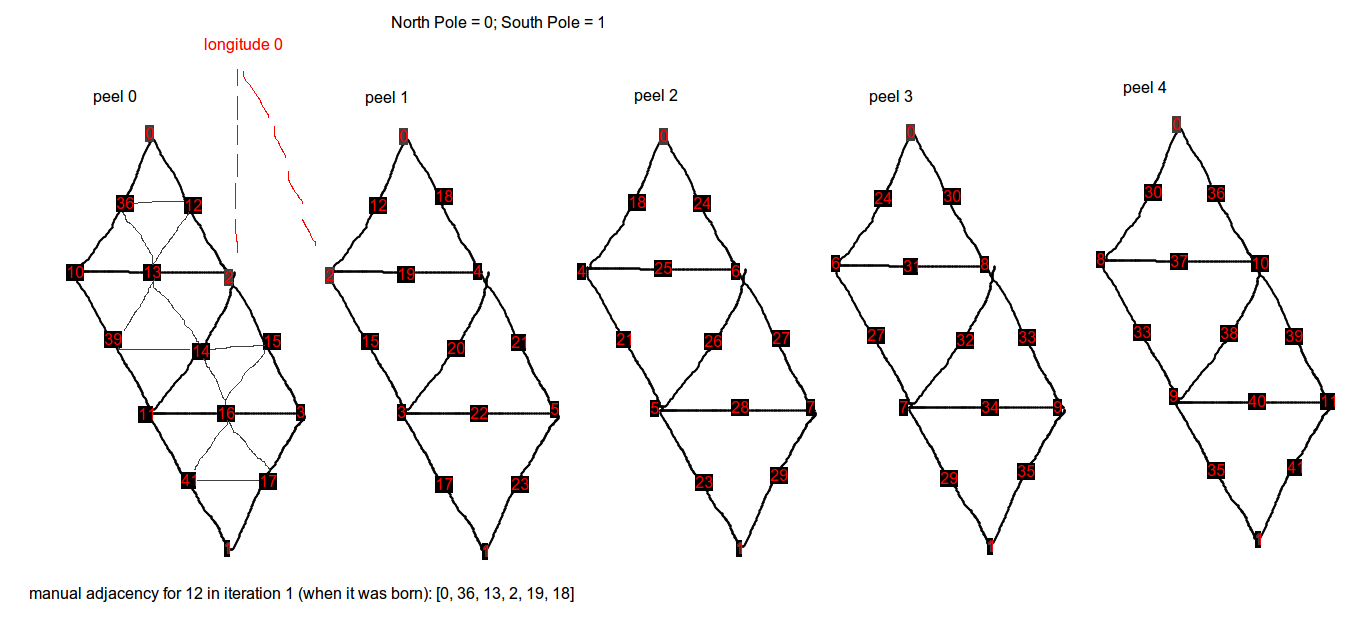
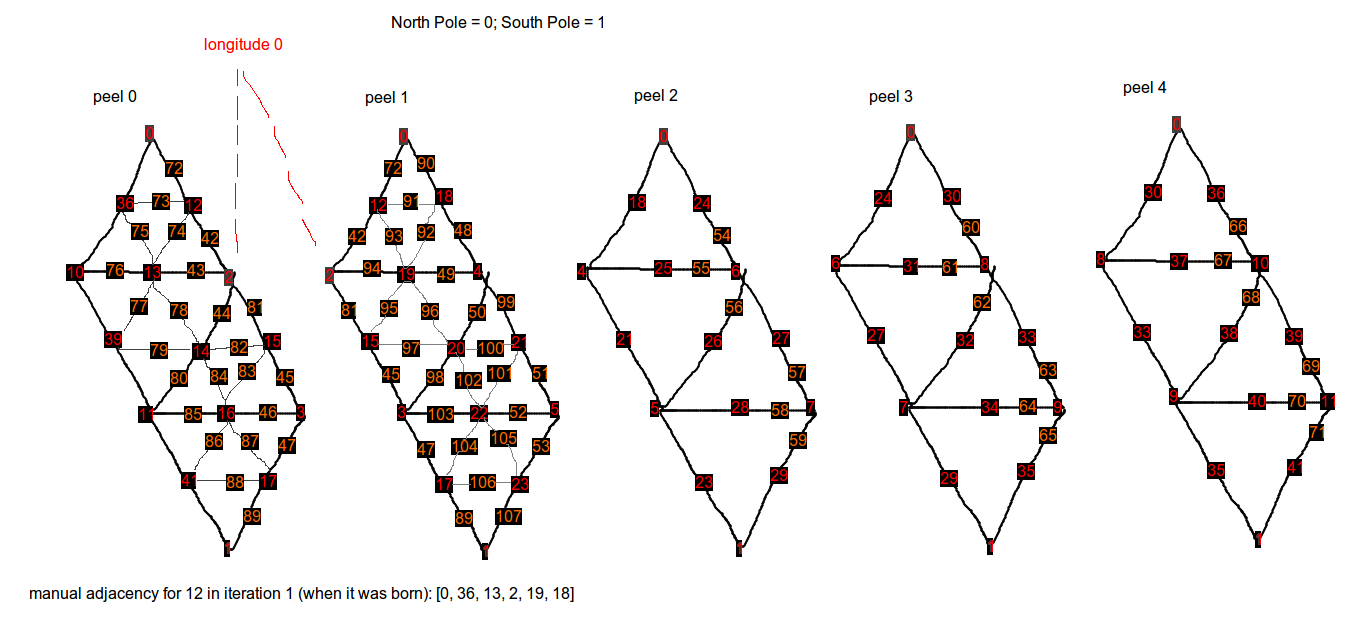
trying Sympy polynomial manipulation to do that matrix problem I came up with in high school

diff --git a/Mapping/IcosahedronMath.py b/Mapping/IcosahedronMath.py
@@ -535,6 +535,9 @@ def unify_five_and_six(adjacency, point_number):
         return adjacency
     elif point_number < 2:
         raise Exception("cannot unify adjacency to six-point for point number {}".format(point_number))
+    elif len(adjacency) == 6:
+        # it's already in 6-point form, return it
+        return adjacency
 
     identity_pair = get_starting_point_neighbor_identity(point_number)
     idx, idy = identity_pair
@@ -561,6 +564,7 @@ def unify_five_and_six(adjacency, point_number):
 def get_adjacency_recursive(point_number, iteration):
     # use get_adjacency_when_born() here as base case
     # for non-born iterations, use the formula for child number from parent, index, and iteration
+    print("getting adjacency recursive for p#{} in i#{}".format(point_number, iteration))
 
     if iteration == get_iteration_born(point_number):
         return get_adjacency_when_born(point_number)
@@ -578,6 +582,8 @@ def get_adjacency_recursive(point_number, iteration):
         else:
             raise ValueError("shouldn't happen")
 
+    print("reached lower cases for p#{} i#{}".format(point_number, iteration))
+
     # children born this iteration are easy to find for points >= 2
     childL = get_child(point_number, 0, iteration)
     childDL = get_child(point_number, 1, iteration)
@@ -590,17 +596,21 @@ def get_adjacency_recursive(point_number, iteration):
     neighborUR = previous_adj[get_direction_number_from_label("UR")]
     neighborU = previous_adj[get_direction_number_from_label("U")]
 
+    neighborU_is_north_pole = neighborU == 0
+    neighborR_is_south_pole = neighborR == 1
+
     # the new R is the previous R's L child (index 0)
-    childR = get_child(neighborR, 0, iteration)
+    childR = get_south_pole_neighbor(iteration=iteration, previous_neighbor_in_direction=point_number) if neighborR_is_south_pole else get_child(neighborR, 0, iteration)
     # the new UR is the previous UR's DL child (index 1)
     childUR = get_child(neighborUR, 1, iteration)
     # the new U is the previous U's D child (index 2)
-    childU = get_child(neighborU, 2, iteration)
+    childU = get_north_pole_neighbor(iteration=iteration, previous_neighbor_in_direction=point_number) if neighborU_is_north_pole else get_child(neighborU, 2, iteration)
 
     adj_labels = {
         "L": childL, "DL": childDL, "D": childD,
         "R": childR, "UR": childUR, "U": childU,
     }
+    print("got adj_labels {}".format(adj_labels))
     adj = convert_adjacency_label_dict_to_list(adj_labels)
     return adj
 
@@ -622,7 +632,7 @@ def get_adjacency_when_born(point_number):
         assert parent not in [0, 1], "parent of p#{} is a pole ({}) but this should not happen".format(point_number, parent)
         # need to account that for the initial points other than the poles, there is a relation in which two of the neighbor directions point to the same neighbor point
         parent_adjacency = unify_five_and_six(parent_adjacency, parent)
-        assert len(parent_adjacency) == 6
+        assert len(parent_adjacency) == 6, "parent p#{} has adjacency of wrong length: {}".format(parent, parent_adjacency)
 
     print("using parent adjacency {}".format(parent_adjacency))
     parL = parent_adjacency[get_direction_number_from_label("L")]
@@ -640,7 +650,17 @@ def get_adjacency_when_born(point_number):
         previous_np_adj = get_adjacency_recursive(0, iteration-1)
     if parR_is_south_pole or parD_is_south_pole:
         previous_sp_adj = get_adjacency_recursive(1, iteration-1)
+    parent_on_NR = is_initial_northern_ring_point(parent)
+    parent_on_SR = is_initial_southern_ring_point(parent)
+    on_northern_seam = is_on_northern_seam(point_number)
+    on_northern_seam_and_parent_has_five_neighbors = on_northern_seam and parent_on_NR
+    on_northern_seam_and_parent_has_six_neighbors = on_northern_seam and not parent_on_NR
+    on_southern_seam = is_on_southern_seam(point_number)
+    on_southern_seam_and_parent_has_five_neighbors = on_southern_seam and parent_on_SR
+    on_southern_seam_and_parent_has_six_neighbors = on_southern_seam and not parent_on_SR
 
+    # so many conditions
+    # ugggggh oh god why
     if child_index == 0:
         # parent plus its L, DL, U neighbors will give you all six new neighbors
         neighbors = {}
@@ -649,9 +669,9 @@ def get_adjacency_when_born(point_number):
         # the parent's old left neighbor is the new point's L neighbor
         neighbors["L"] = parL
         # the parent's upper neighbor's D child (index 2) is the new point's UR neighbor
-        neighbors["UR"] = get_child(go_upright_from_north_pole_neighbor(parent, previous_np_adj), 1, iteration) if parU_is_north_pole else get_child(parU, 2, iteration)
+        neighbors["UR"] = get_child(parUR, 1, iteration) if on_northern_seam_and_parent_has_five_neighbors else get_child(parU, 1, iteration) if on_northern_seam_and_parent_has_six_neighbors else get_child(parU, 2, iteration)
         # the parent's upper neighbor's DL child (index 1) is the new point's U neighbor
-        neighbors["U"] = get_child(go_upright_from_north_pole_neighbor(parent, previous_np_adj), 0, iteration) if parU_is_north_pole else get_child(parU, 1, iteration)
+        neighbors["U"] = get_child(parUR, 0, iteration) if on_northern_seam_and_parent_has_five_neighbors else get_child(parU, 0, iteration) if on_northern_seam_and_parent_has_six_neighbors else get_child(parU, 1, iteration)
         # the parent's left neighbor's D child (index 2) is the new point's DL neighbor
         neighbors["DL"] = get_child(go_upright_from_north_pole_neighbor(parent, previous_np_adj, -1), 0, iteration) if parL_is_north_pole else get_child(parL, 2, iteration)
         # the parent's DL child (index 1) is the new point's D neighbor
@@ -668,9 +688,9 @@ def get_adjacency_when_born(point_number):
         # the parent's L child (index 0) is the U
         neighbors["U"] = get_child(parent, 0, iteration)
         # the parent's left's D child (index 2) is the L
-        neighbors["L"] = get_child(parL, 2, iteration)
+        neighbors["L"] = get_child(go_upright_from_north_pole_neighbor(parent, previous_np_adj, -1), 0, iteration) if parL_is_north_pole else get_child(parL, 2, iteration)
         # the parent's down's L child (index 0) is the D
-        neighbors["D"] = get_child(parD, 0, iteration)
+        neighbors["D"] = get_child(go_upright_from_south_pole_neighbor(parent, previous_sp_adj, -1), 2, iteration) if parD_is_south_pole else get_child(parD, 0, iteration)
     elif child_index == 2:
         # parent plus its DL, D, R neighbors will give you all six new neighbors
         neighbors = {}
@@ -679,18 +699,45 @@ def get_adjacency_when_born(point_number):
         # the parent's D is the D
         neighbors["D"] = parD
         # the parent's R's L child (index 0) is the UR
-        neighbors["UR"] = get_child(parR, 0, iteration)
+        neighbors["UR"] = get_child(parUR, 1, iteration) if on_southern_seam_and_parent_has_five_neighbors else get_child(parR, 1, iteration) if on_southern_seam_and_parent_has_six_neighbors else get_child(parR, 0, iteration)
         # the parent's R's DL child (index 1) is the R
-        neighbors["R"] = get_child(parR, 1, iteration)
+        neighbors["R"] = get_child(parUR, 2, iteration) if on_southern_seam_and_parent_has_five_neighbors else get_child(parR, 2, iteration) if on_southern_seam_and_parent_has_six_neighbors else get_child(parR, 1, iteration)
         # the parent's DL child (index 1) is the L
         neighbors["L"] = get_child(parent, 1, iteration)
         # the parent's D's L child (index 0) is the DL
-        neighbors["DL"] = get_child(parD, 0, iteration)
+        neighbors["DL"] = get_child(go_upright_from_south_pole_neighbor(parent, previous_sp_adj, -1), 2, iteration) if parD_is_south_pole else get_child(parD, 0, iteration)
     else:
         raise RuntimeError("invalid child index encountered: {}".format(child_index))
 
     print("child index {} gave neighbors {}".format(child_index, neighbors))
     return convert_adjacency_label_dict_to_list(neighbors)
+
+
+def is_on_northern_seam(p):
+    # the seams are the edges touching the north pole, from the pole to its five original neighbors
+    if is_initial_northern_ring_point(p):
+        return True
+    else:
+        parent = get_parent(p)
+        child_index = get_child_index(p)
+        return child_index == 0 and is_on_northern_seam(parent)
+
+
+def is_on_southern_seam(p):
+    if is_initial_southern_ring_point(p):
+        return True
+    else:
+        parent = get_parent(p)
+        child_index = get_child_index(p)
+        return child_index == 2 and is_on_southern_seam(parent)
+
+
+def is_initial_northern_ring_point(p):
+    return p in [2, 4, 6, 8, 10]
+
+
+def is_initial_southern_ring_point(p):
+    return p in [3, 5, 7, 9, 11]
 
 
 def get_north_pole_neighbor(iteration, previous_neighbor_in_direction):
@@ -843,7 +890,7 @@ def test_adjacency_when_born():
         print("checking adjacency when born of p#{}".format(point_number))
         res_no_memo = get_adjacency_when_born(point_number)
         res_memo = get_specific_adjacency_from_memo(point_number, get_iteration_born(point_number))
-        assert res_no_memo == res_memo, "{} != {}".format(res_no_memo, res_memo)
+        assert res_no_memo == res_memo, "mismatch for p#{} when born:\ncomputed: {}\nmemoized: {}".format(point_number, res_no_memo, res_memo)
     print("test succeeded: adjacency calculated from scratch is the same as the memoized adjacency")
 
 

diff --git a/QuadrupleIntegralProblem.py b/QuadrupleIntegralProblem.py
@@ -1,0 +1,40 @@
+# the math problem I made up in late high school to be a waste of time on purpose
+# integral(0,1) integral(0,1) integral(0,1) integral(0,1) det(A) dw dx dy dz
+# where A is the product of all 2x2 matrices permuting [[w,x],[y,z]] (so there are 4! = 24 of them), and if order matters, they are in alphabetical order where you read left to right then top to bottom
+
+import sympy
+from sympy.abc import w,x,y,z
+from sympy import poly, integrate
+import itertools
+
+
+def get_variable_permutations_in_order():
+    perms = itertools.permutations("wxyz")
+    d = {"w":w, "x":x, "y":y, "z":z}
+    def convert_str(perm):
+        return [d[char] for char in perm]
+    return [convert_str(perm) for perm in sorted(perms)]
+
+
+def get_2x2_det(permutation):
+    a,b,c,d = permutation  # it will be some order of w,x,y,z
+    return poly(a*d-b*c)
+
+
+def get_all_dets_product():
+    perms = get_variable_permutations_in_order()
+    p = 1
+    for perm in perms:
+        p *= get_2x2_det(perm)
+    return p
+
+
+
+if __name__ == "__main__":
+    perms = get_variable_permutations_in_order()
+    p = get_all_dets_product()
+    p_expr = p.as_expr()
+    integral = integrate(integrate(integrate(integrate(p_expr, (z,0,1)), (y,0,1)), (x,0,1)), (w,0,1))
+    print(integral)
+    # it says the answer is 10189641213114751/333192503101628570400
+    # don't think I believe that, very odd
